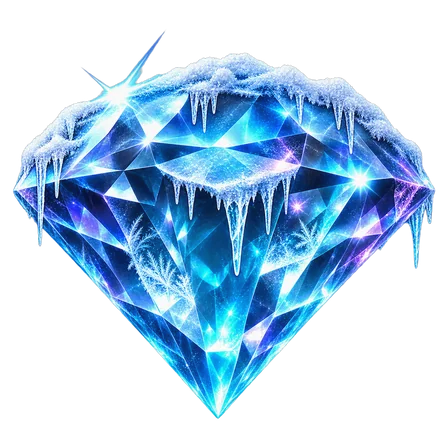
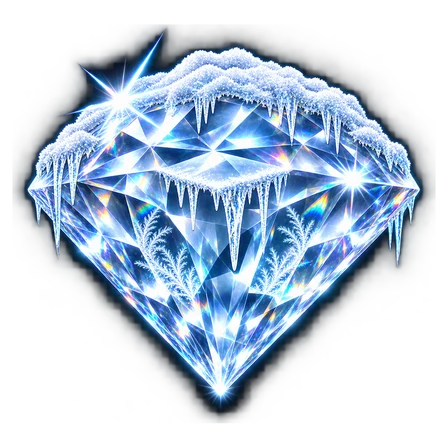
Final art for diamonds, +1/+2 SPIN diamonds, gold coins, double symbols and the three gems
Claude-Session: https://claude.ai/code/session_01JWbc9z4oG3Xz8HupNtxEVe

diff --git a/index.html b/index.html
@@ -340,7 +340,7 @@ button{font-family:inherit;cursor:pointer;border:none;color:#fff;font-weight:700
 @keyframes ffsym{to{background-position:100% 0}}
 .cell .dbl{position:relative;height:94%;aspect-ratio:1;max-width:100%;display:flex;align-items:center;justify-content:center}
 .cell .dbl img.symimg{height:100%!important;width:100%!important}
-#grid .cell .dbl .val.v1{inset:auto!important;left:0!important;right:30%!important;top:34%!important;transform:translateY(-50%);font-size:clamp(9px,1.7vw,14px)!important}
+#grid .cell .dbl .val.v1{inset:auto!important;left:0!important;right:30%!important;top:40%!important;transform:translateY(-50%);font-size:clamp(9px,1.7vw,14px)!important}
 #grid .cell .dbl .val.v2{inset:auto!important;left:30%!important;right:0!important;top:70%!important;transform:translateY(-50%);font-size:clamp(9px,1.7vw,14px)!important}
 #grid .cell .val.lit{color:#ffe28a;text-shadow:0 0 8px #ffb02e,0 2px 0 #000;transform:translateY(-50%) scale(1.3)}
 .gemlist{display:flex;flex-direction:column;gap:6px;margin-top:8px;align-items:center}

diff --git a/mobile.html b/mobile.html
@@ -341,7 +341,7 @@ button{font-family:inherit;cursor:pointer;border:none;color:#fff;font-weight:700
 @keyframes ffsym{to{background-position:100% 0}}
 .cell .dbl{position:relative;height:94%;aspect-ratio:1;max-width:100%;display:flex;align-items:center;justify-content:center}
 .cell .dbl img.symimg{height:100%!important;width:100%!important}
-#grid .cell .dbl .val.v1{inset:auto!important;left:0!important;right:30%!important;top:34%!important;transform:translateY(-50%);font-size:clamp(9px,1.7vw,14px)!important}
+#grid .cell .dbl .val.v1{inset:auto!important;left:0!important;right:30%!important;top:40%!important;transform:translateY(-50%);font-size:clamp(9px,1.7vw,14px)!important}
 #grid .cell .dbl .val.v2{inset:auto!important;left:30%!important;right:0!important;top:70%!important;transform:translateY(-50%);font-size:clamp(9px,1.7vw,14px)!important}
 #grid .cell .val.lit{color:#ffe28a;text-shadow:0 0 8px #ffb02e,0 2px 0 #000;transform:translateY(-50%) scale(1.3)}
 .gemlist{display:flex;flex-direction:column;gap:6px;margin-top:8px;align-items:center}

diff --git a/src/ui.html b/src/ui.html
@@ -340,7 +340,7 @@ button{font-family:inherit;cursor:pointer;border:none;color:#fff;font-weight:700
 @keyframes ffsym{to{background-position:100% 0}}
 .cell .dbl{position:relative;height:94%;aspect-ratio:1;max-width:100%;display:flex;align-items:center;justify-content:center}
 .cell .dbl img.symimg{height:100%!important;width:100%!important}
-#grid .cell .dbl .val.v1{inset:auto!important;left:0!important;right:30%!important;top:34%!important;transform:translateY(-50%);font-size:clamp(9px,1.7vw,14px)!important}
+#grid .cell .dbl .val.v1{inset:auto!important;left:0!important;right:30%!important;top:40%!important;transform:translateY(-50%);font-size:clamp(9px,1.7vw,14px)!important}
 #grid .cell .dbl .val.v2{inset:auto!important;left:30%!important;right:0!important;top:70%!important;transform:translateY(-50%);font-size:clamp(9px,1.7vw,14px)!important}
 #grid .cell .val.lit{color:#ffe28a;text-shadow:0 0 8px #ffb02e,0 2px 0 #000;transform:translateY(-50%) scale(1.3)}
 .gemlist{display:flex;flex-direction:column;gap:6px;margin-top:8px;align-items:center}
